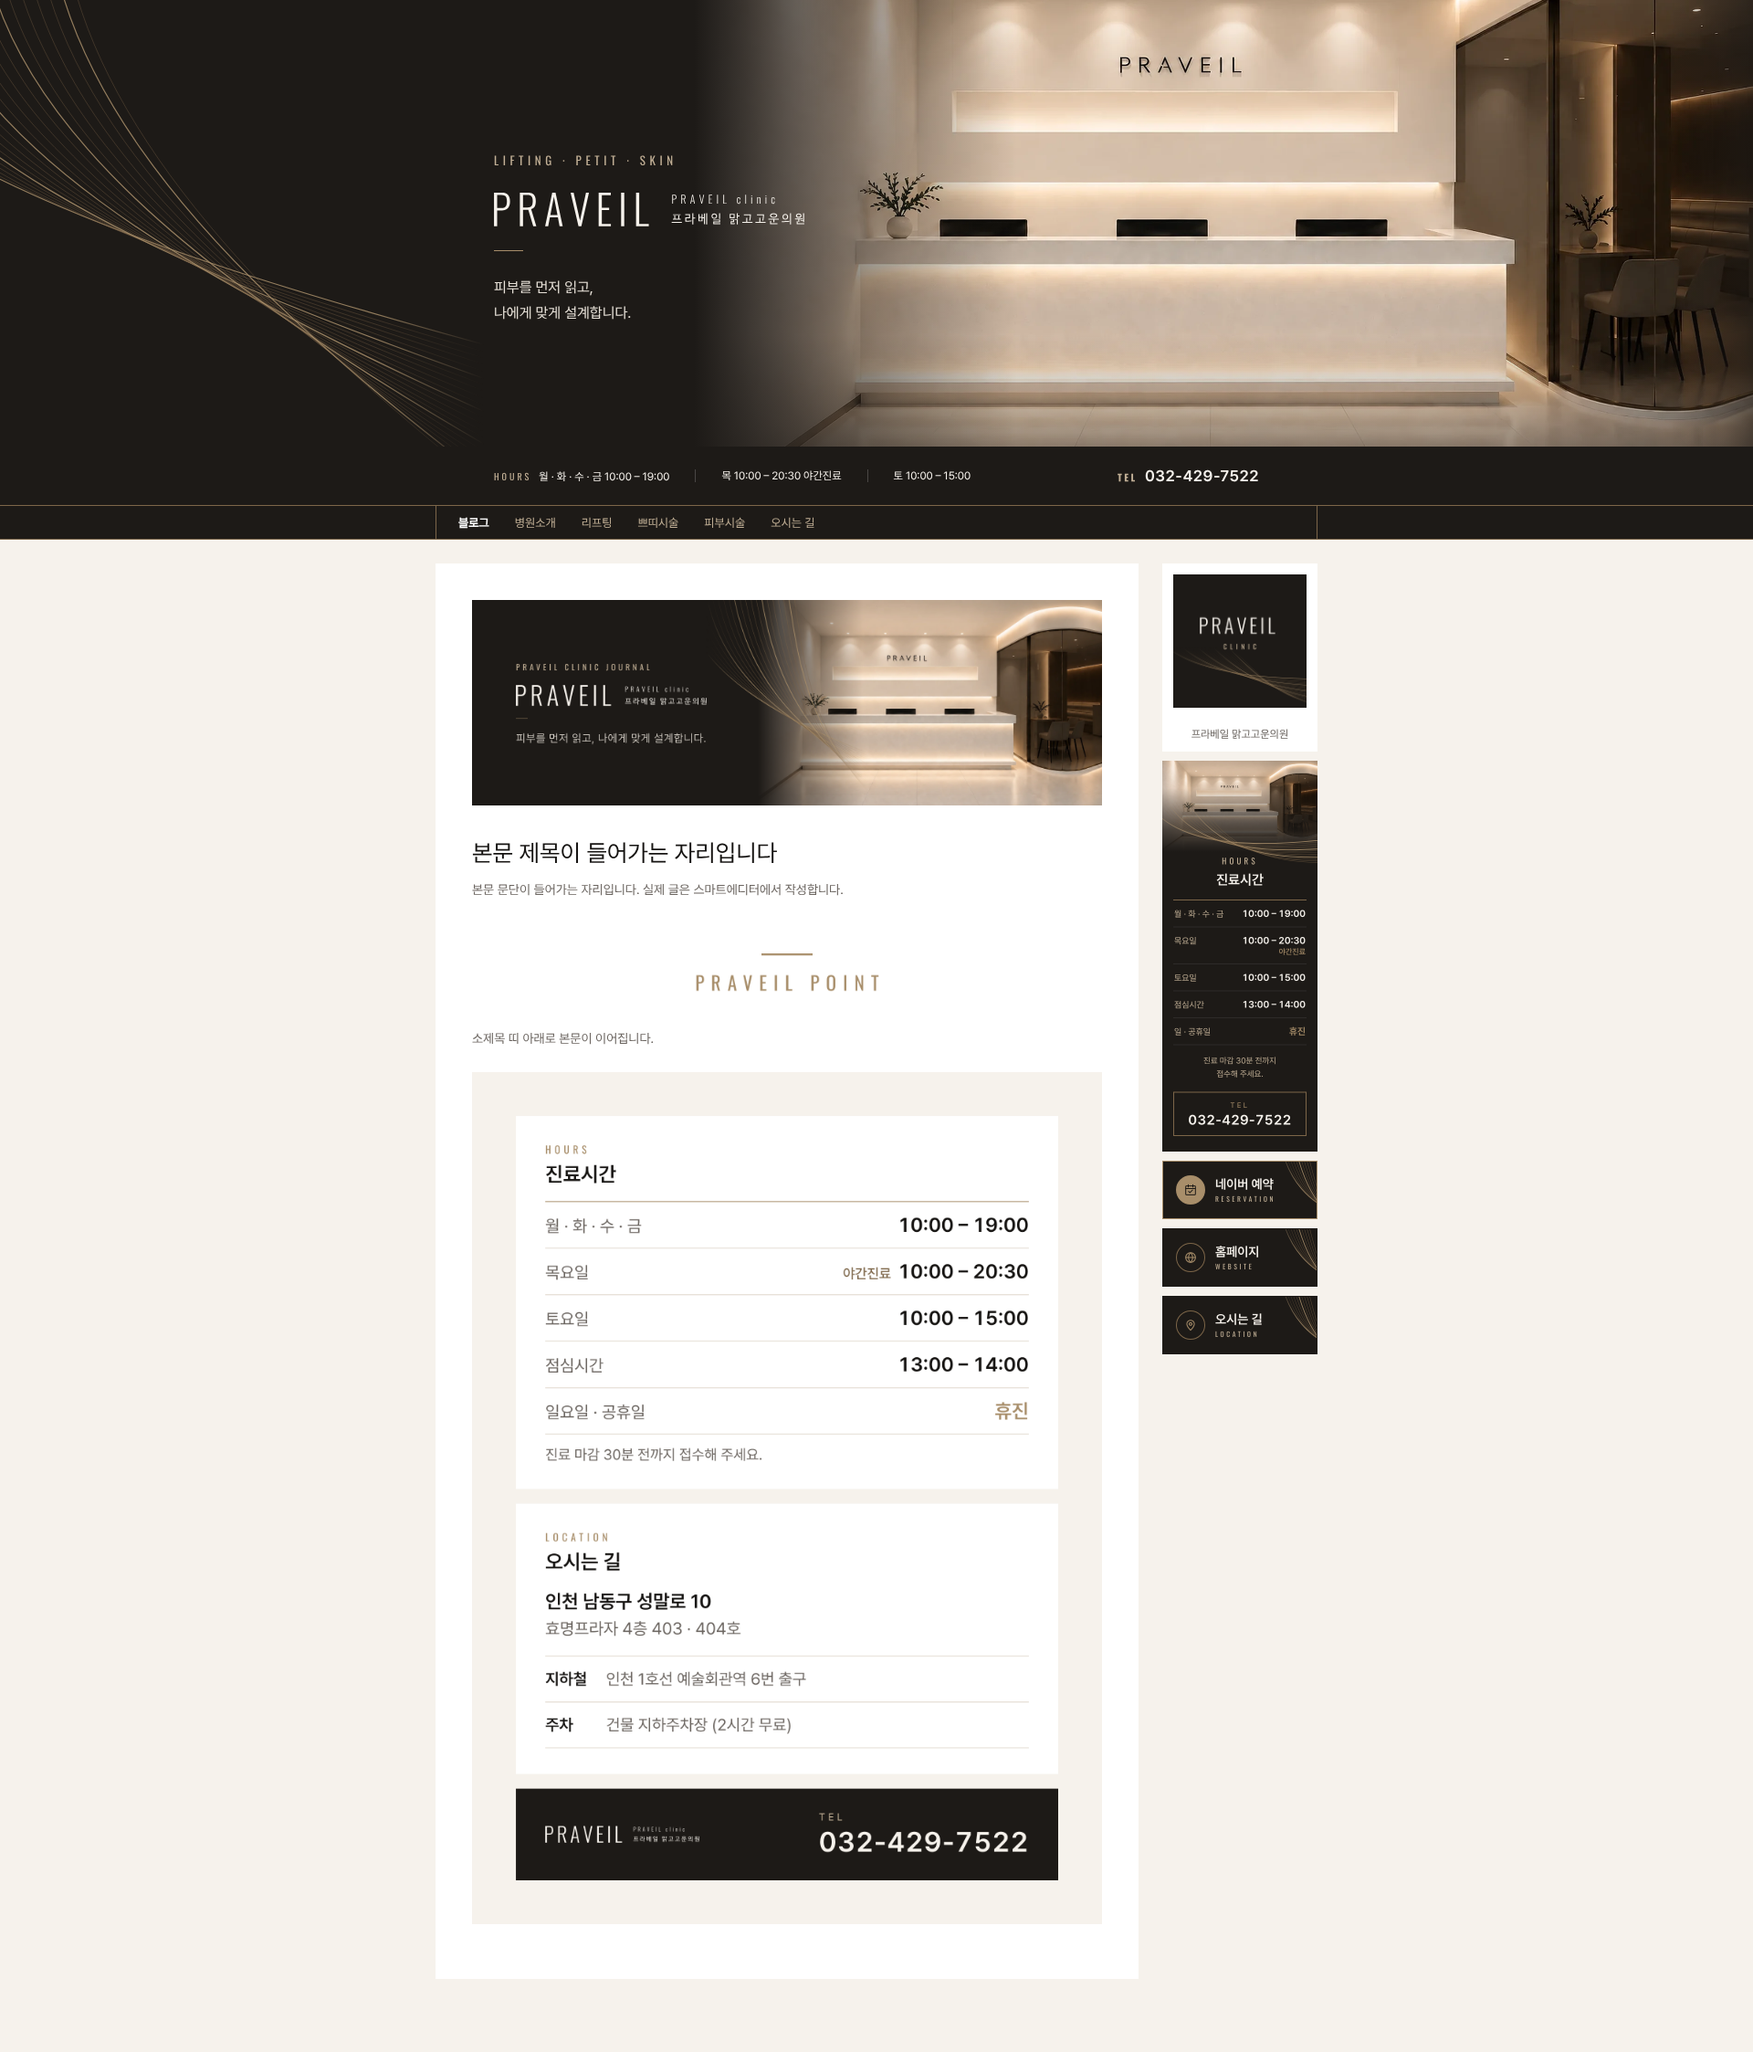
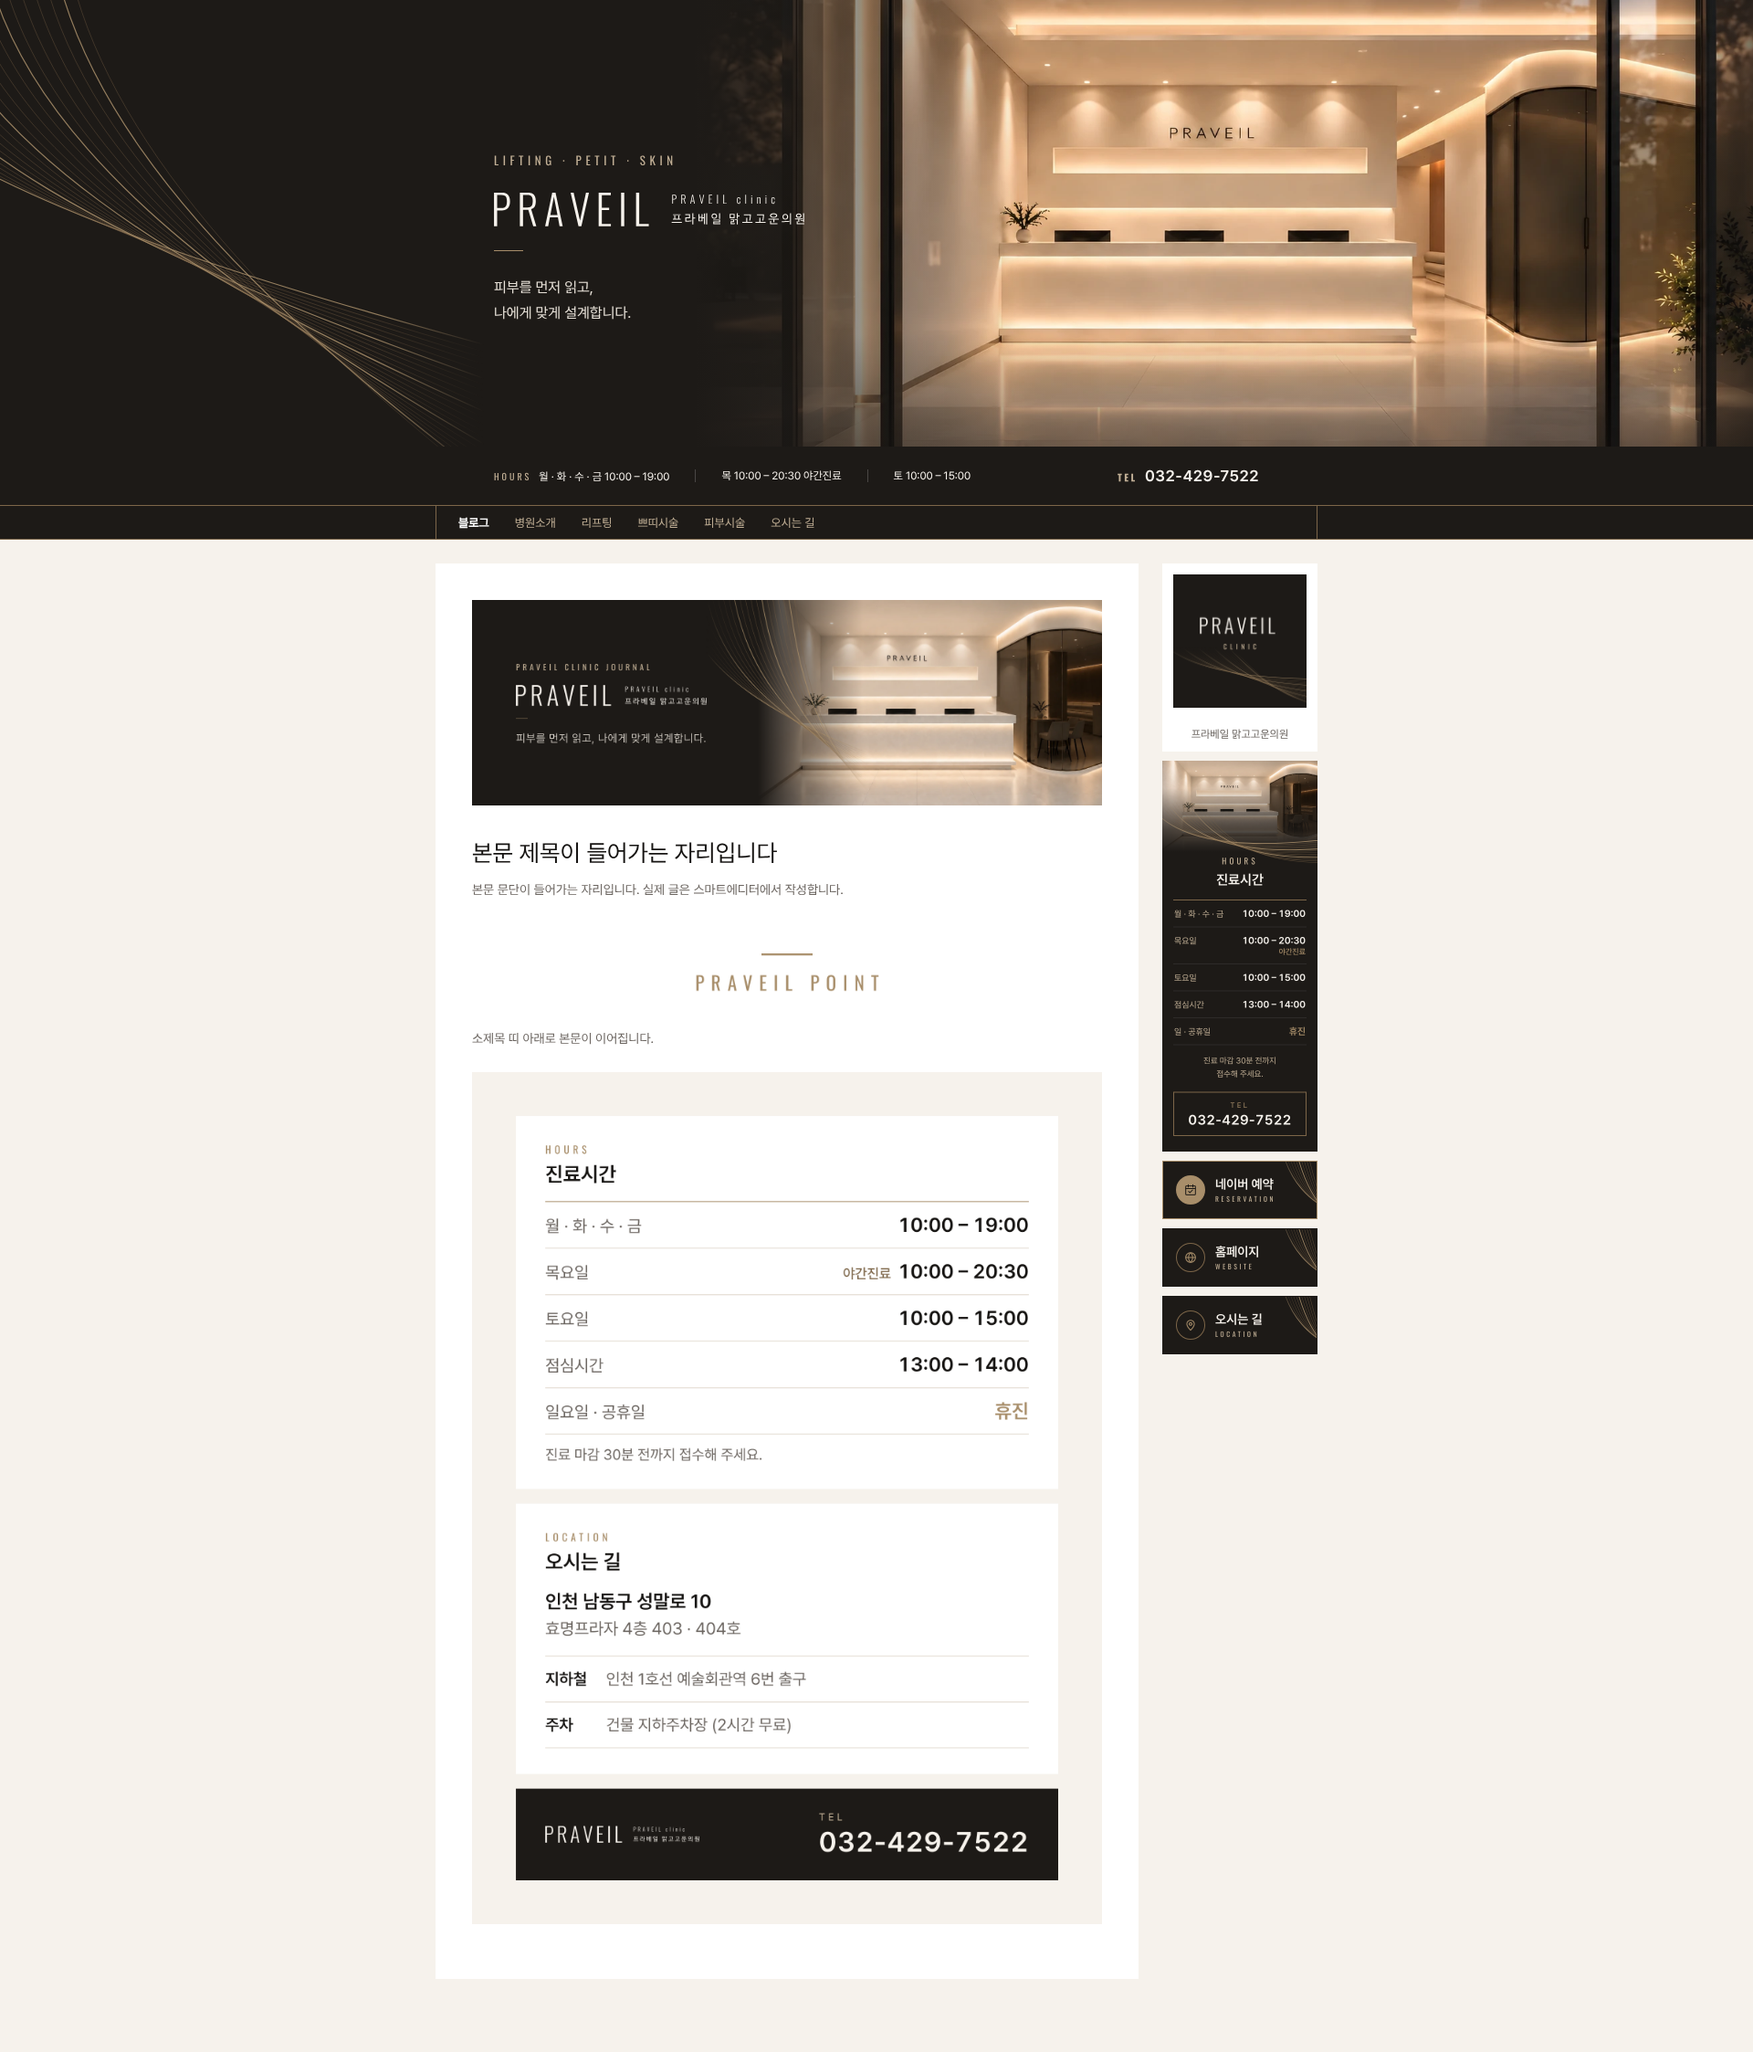
네이버 블로그 스킨 배경 사진을 병원이 준 입구 사진으로 교체
Claude-Session: https://claude.ai/code/session_01Ld2YJmc6iArSkVBjrjkKUN

Changed region(s): [[0.4062, 0.0, 1.0, 0.2181]]

diff --git a/docs/naver-blog-skin/skin.html b/docs/naver-blog-skin/skin.html
@@ -158,7 +158,7 @@
         overflow: hidden;
       }
       #background .shot .photo {
-        object-position: 50% 62%;
+        object-position: 50% 42%;
       }
       /* 글씨 쪽은 짙게, 사진 쪽은 밝게. 양 끝은 짙은 색으로 맞춰 가로 반복해도 이음매가 없음 */
       #background .shade {
@@ -794,7 +794,7 @@
     <!-- 2. 스킨 배경: 화면 전체 폭 머리 (로비 사진 + 왼쪽 비단 곡선) -->
     <section class="asset hb" id="background">
       <div class="shot">
-        <img class="photo" src="../../public/images/photos/hero-lobby.webp" />
+        <img class="photo" src="assets/lobby-entrance.webp" />
       </div>
       <div class="shade"></div>
       <svg class="pattern" width="900" height="489" viewBox="0 0 900 489">
